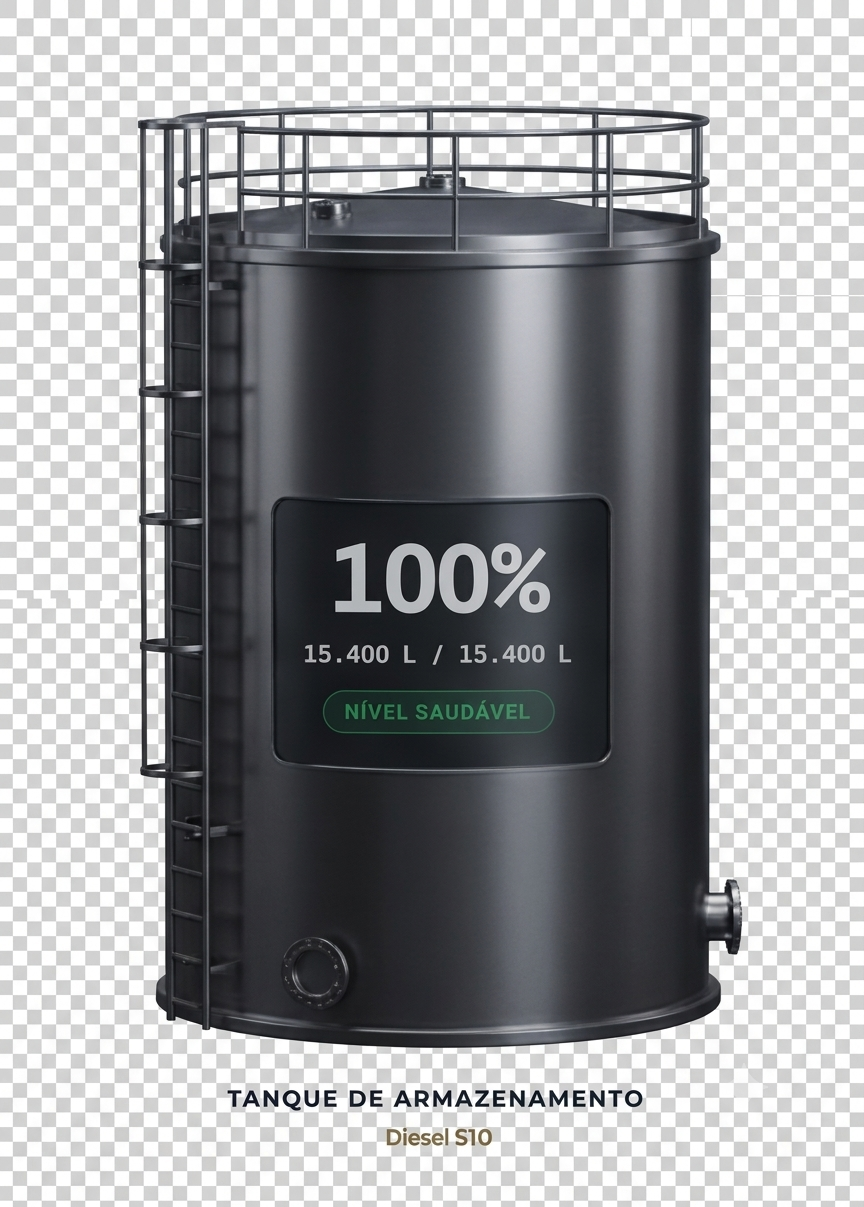
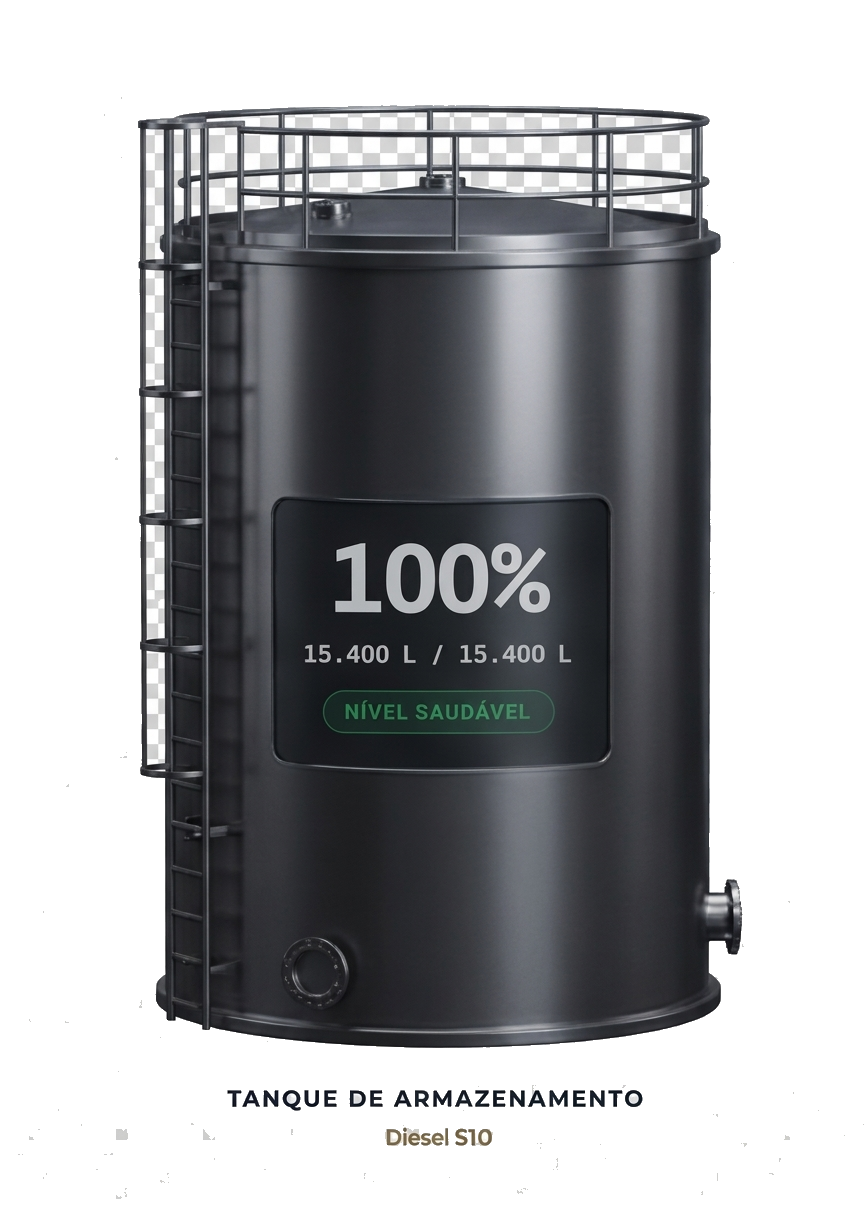
fix(abastecimento): fundo do PNG do tanque transparente (flood-fill) + display sobreposto alinhado ao painel (sem quebra) + barra de nível na faixa livre

Changed region(s): [[0.0, 0.0, 1.0, 1.0]]

diff --git a/src/components/abastecimento/PostoInterno.tsx b/src/components/abastecimento/PostoInterno.tsx
@@ -151,15 +151,15 @@ export function PostoInterno({ dados, presentation = false }: { dados: PostoInte
               {/* Display dinâmico sobreposto ao display embutido da imagem.
                   Posição medida na imagem (centro x≈50.5%, y≈50.5%; conteúdo
                   ocupa ~40%→61% da altura). bg opaco cobre o "100%" desenhado. */}
-              <div className="absolute left-[50.5%] top-[50.5%] z-10 flex w-[34%] -translate-x-1/2 -translate-y-1/2 flex-col items-center justify-center rounded-[12px] bg-[rgba(6,10,16,0.98)] px-3 py-3.5 text-center shadow-[inset_0_2px_14px_rgba(0,0,0,0.9)]">
-                <div className="font-mono text-[38px] font-black leading-none tabular-nums tracking-[-0.03em] text-slate-100 [text-shadow:0_0_16px_rgba(255,255,255,0.2)]">
+              <div className="absolute left-[48.3%] top-[50.9%] z-10 flex w-[40%] -translate-x-1/2 -translate-y-1/2 flex-col items-center justify-center rounded-[12px] bg-[rgba(6,10,16,0.98)] px-2 py-3 text-center shadow-[inset_0_2px_14px_rgba(0,0,0,0.9)]">
+                <div className="font-mono text-[36px] font-black leading-none tabular-nums tracking-[-0.03em] text-slate-100 [text-shadow:0_0_16px_rgba(255,255,255,0.2)]">
                   {pct.toFixed(0)}%
                 </div>
-                <div className="mt-1.5 font-mono text-[12px] font-semibold tabular-nums text-slate-300/90">
+                <div className="mt-1.5 whitespace-nowrap font-mono text-[12px] font-semibold tabular-nums text-slate-300/90">
                   {saldoReal ? fmtL(saldoLitros) : "—"} / {fmtL(TANQUE_CONFIG.capacidadeLitros)}
                 </div>
                 <div
-                  className="mt-2 inline-flex rounded-full border px-3 py-0.5 text-[9px] font-bold uppercase tracking-[0.12em]"
+                  className="mt-2 inline-flex whitespace-nowrap rounded-full border px-3 py-0.5 text-[9px] font-bold uppercase tracking-[0.12em]"
                   style={{ color: nivel.cor, borderColor: `rgba(${nivel.rgb},0.4)`, background: `rgba(${nivel.rgb},0.14)` }}
                 >
                   {nivel.label}
@@ -168,7 +168,7 @@ export function PostoInterno({ dados, presentation = false }: { dados: PostoInte
 
               {/* ── Medidor de nível (sight glass) — preenchimento âmbar até pct% ──
                   Posição estimada na face direita do corpo; ajuste left/top/bottom. */}
-              <div className="absolute left-[70%] top-[30%] bottom-[24%] z-10 w-[11px] -translate-x-1/2 overflow-hidden rounded-full border border-white/20 bg-[rgba(2,4,8,0.6)] shadow-[inset_0_2px_4px_rgba(0,0,0,0.85),0_1px_0_rgba(255,255,255,0.1)]">
+              <div className="absolute left-[76%] top-[31%] bottom-[26%] z-10 w-[11px] -translate-x-1/2 overflow-hidden rounded-full border border-white/20 bg-[rgba(2,4,8,0.6)] shadow-[inset_0_2px_4px_rgba(0,0,0,0.85),0_1px_0_rgba(255,255,255,0.1)]">
                 <div
                   className="absolute inset-x-0 bottom-0 rounded-full bg-[linear-gradient(180deg,#fde047,#f59e0b_55%,#b45309)] shadow-[0_0_10px_rgba(251,191,36,0.7)] transition-[height] duration-700 ease-out"
                   style={{ height: `${pct}%` }}
